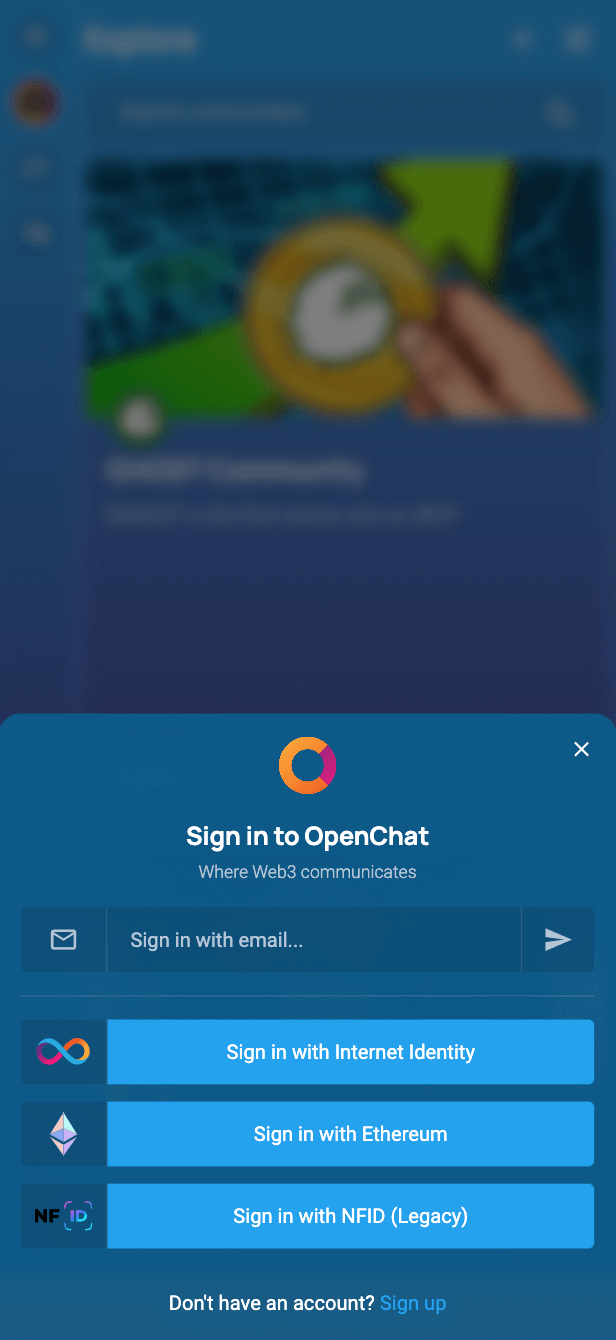
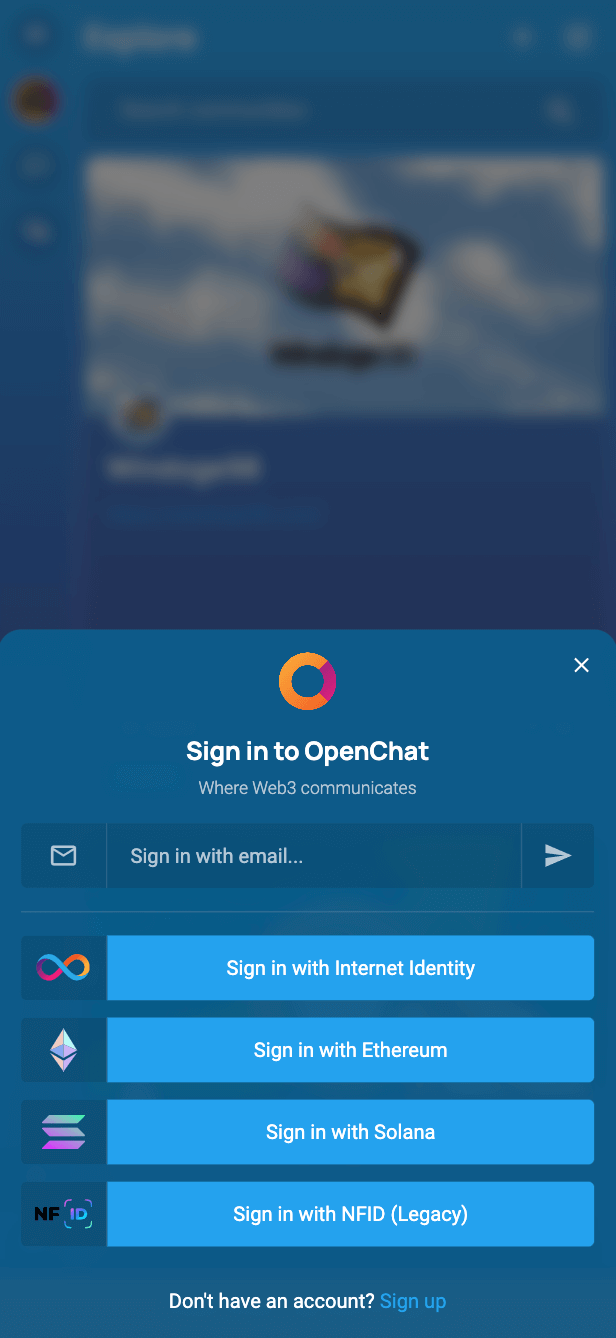
Add Solana to sign-in blog (#5880)

diff --git a/frontend/app/src/components/landingpages/blog/SignIn.svelte b/frontend/app/src/components/landingpages/blog/SignIn.svelte
@@ -7,9 +7,9 @@
     <p>
         TLDR; in addition to <ExternalLink href="https://internetcomputer.org/internet-identity"
             >Internet Identity</ExternalLink
-        >, OpenChat users can now sign-in or sign-up using email, or an Ethereum wallet, and soon
-        with a Solana wallet. Also coming soon are, email recovery, sign-in with a simple PassKey,
-        flexible sessions and Two-factor authentication (2FA).
+        >, OpenChat users can now sign-in or sign-up using email, an Ethereum wallet, or a Solana
+        wallet. Coming soon are, email recovery, sign-in with a simple PassKey, flexible sessions
+        and two-factor authentication (2FA).
     </p>
     <BlogScreenshot
         caption="Sign in to OpenChat"
@@ -60,8 +60,8 @@
 <section>
     <h2>Sign-in with Ethereum wallet</h2>
     <p>
-        For users coming from the Ethereum ecosystem, OpenChat now offers sign-in by Ethereum
-        wallets such as MetaMask, increasing the potential pool of OpenChat users. In the future, we
+        For users coming from the Ethereum ecosystem, OpenChat now offers sign-in by Ethereum wallet
+        such as MetaMask, increasing the potential pool of OpenChat users. In the future, we
         anticipate signing in with your Ethereum wallet will enable you to send/swap/tip/gift ETH
         ecosystem tokens as you currently can with ICP tokens, albeit not so quickly or cheaply!
     </p>
@@ -72,10 +72,11 @@
 </section>
 <section>
     <h2>Sign-in with Solana wallet</h2>
-    <p>
-        See the Ethereum wallet above. The same will soon be true for the Solana wallet and
-        ecosystem!
-    </p>
+    <p>See the Ethereum wallet above. The same goes for the Solana wallet and ecosystem!</p>
+    <BlogScreenshot
+        caption="Sign in with Solana wallet"
+        desktopUrl={"/assets/blog/signin/solana_desktop.png"}
+        mobileUrl={"/assets/blog/signin/solana_mobile.png"} />
 </section>
 <section>
     <h2>What has changed?</h2>
